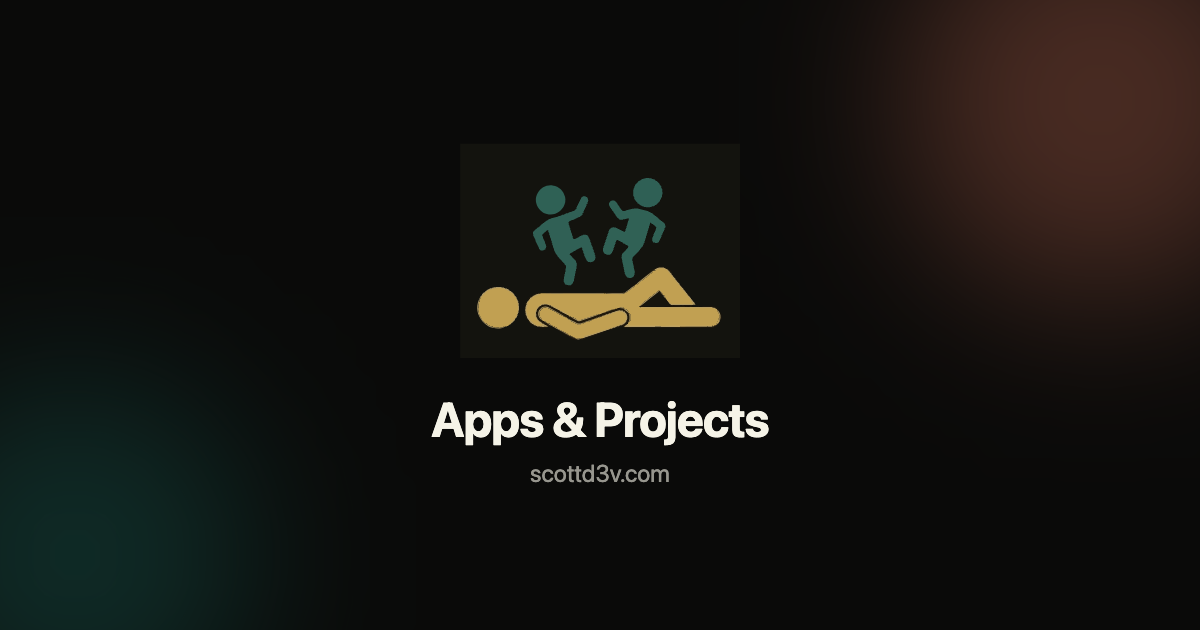
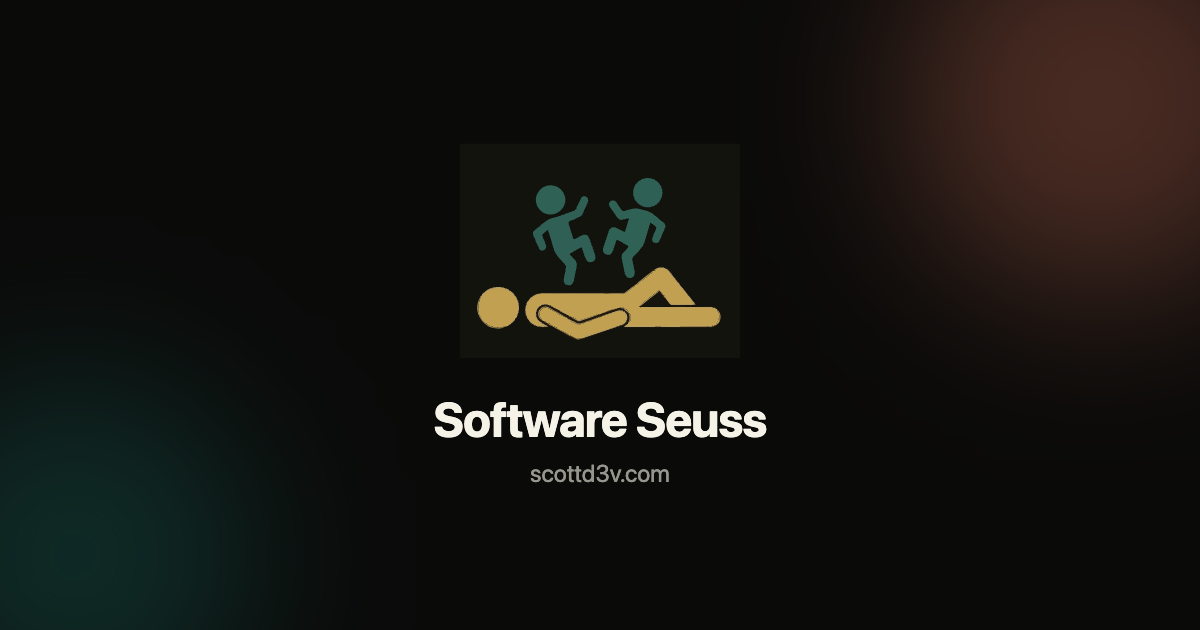
Change OG title to Software Seuss
🤖 Generated with [Claude Code](https://claude.com/claude-code)

Changed region(s): [[0.3392, 0.6333, 0.6475, 0.7238]]

diff --git a/src/app/layout.tsx b/src/app/layout.tsx
@@ -17,7 +17,7 @@ export const metadata: Metadata = {
   title: "scottd3v - Apps & Projects",
   description: "Personal developer site by Scott Reed. iOS apps, games, and projects.",
   openGraph: {
-    title: "Apps & Projects",
+    title: "Software Seuss",
     description: "scottd3v.com",
     siteName: "scottd3v",
     images: [
@@ -32,7 +32,7 @@ export const metadata: Metadata = {
   },
   twitter: {
     card: "summary_large_image",
-    title: "Apps & Projects",
+    title: "Software Seuss",
     description: "scottd3v.com",
     images: ["/og-scottd3v.png"],
   },
